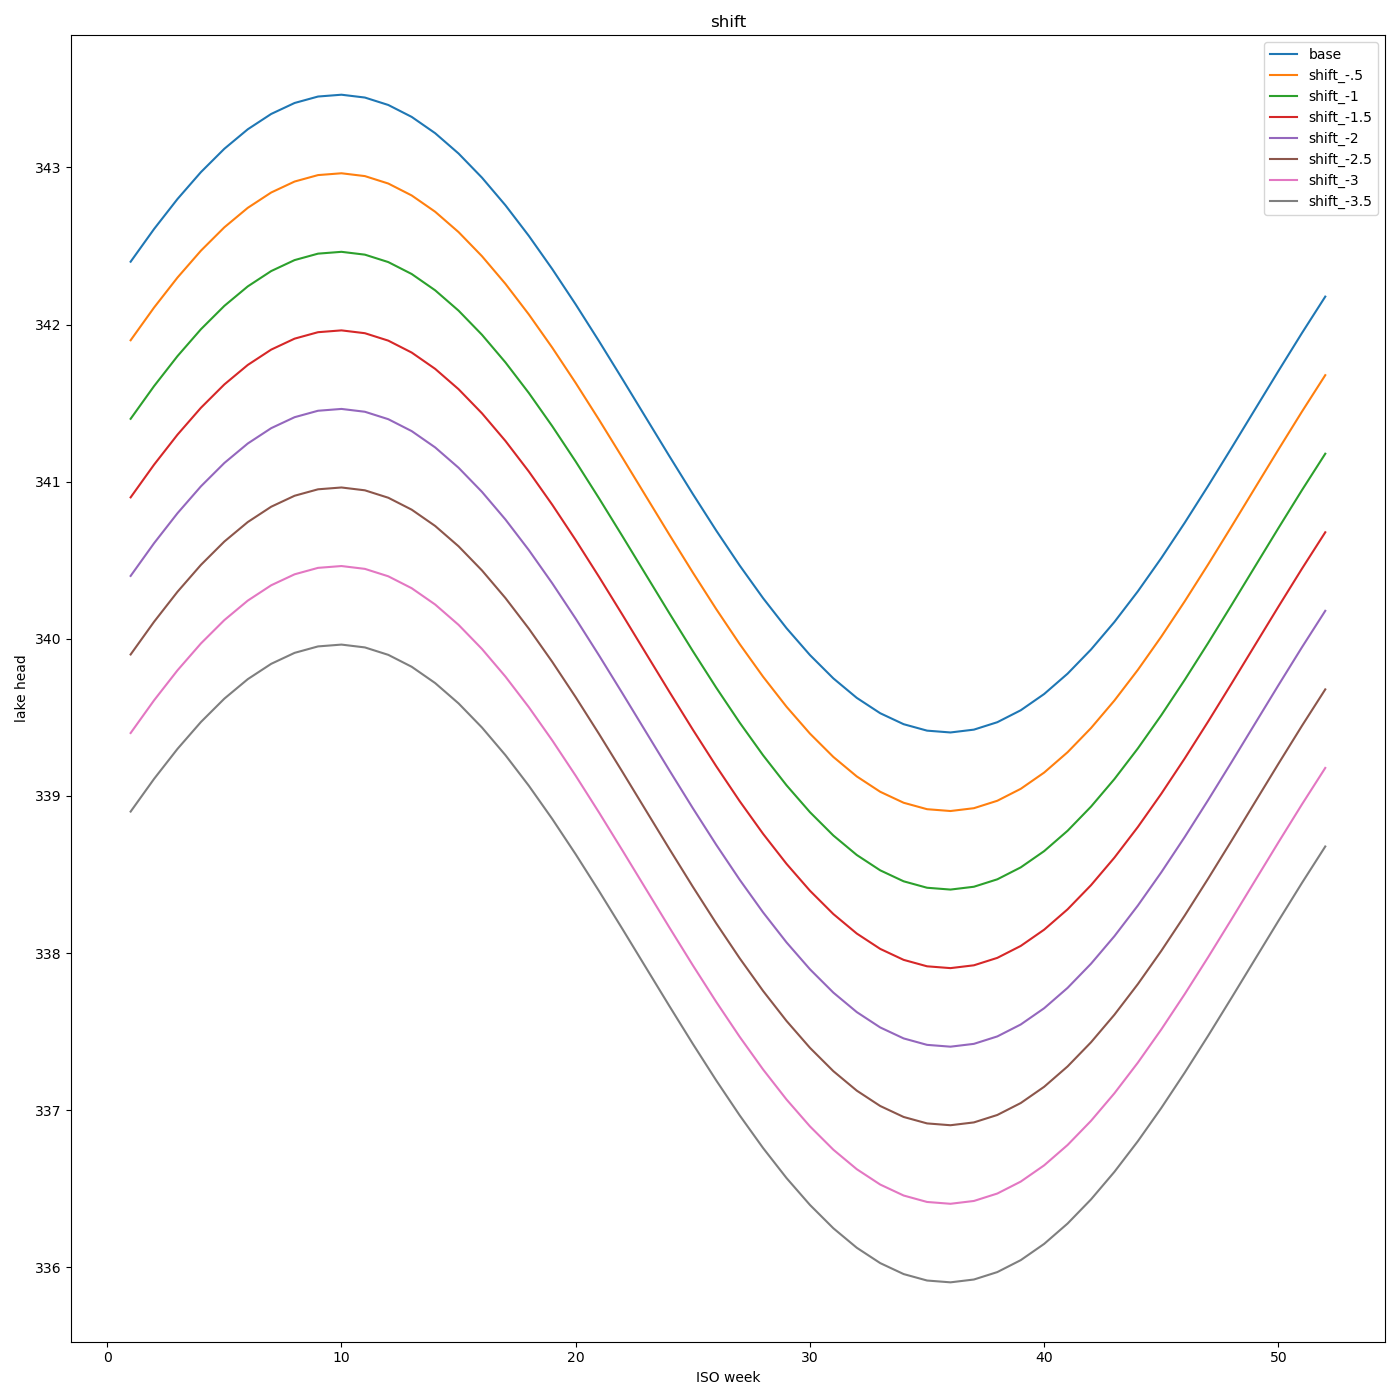
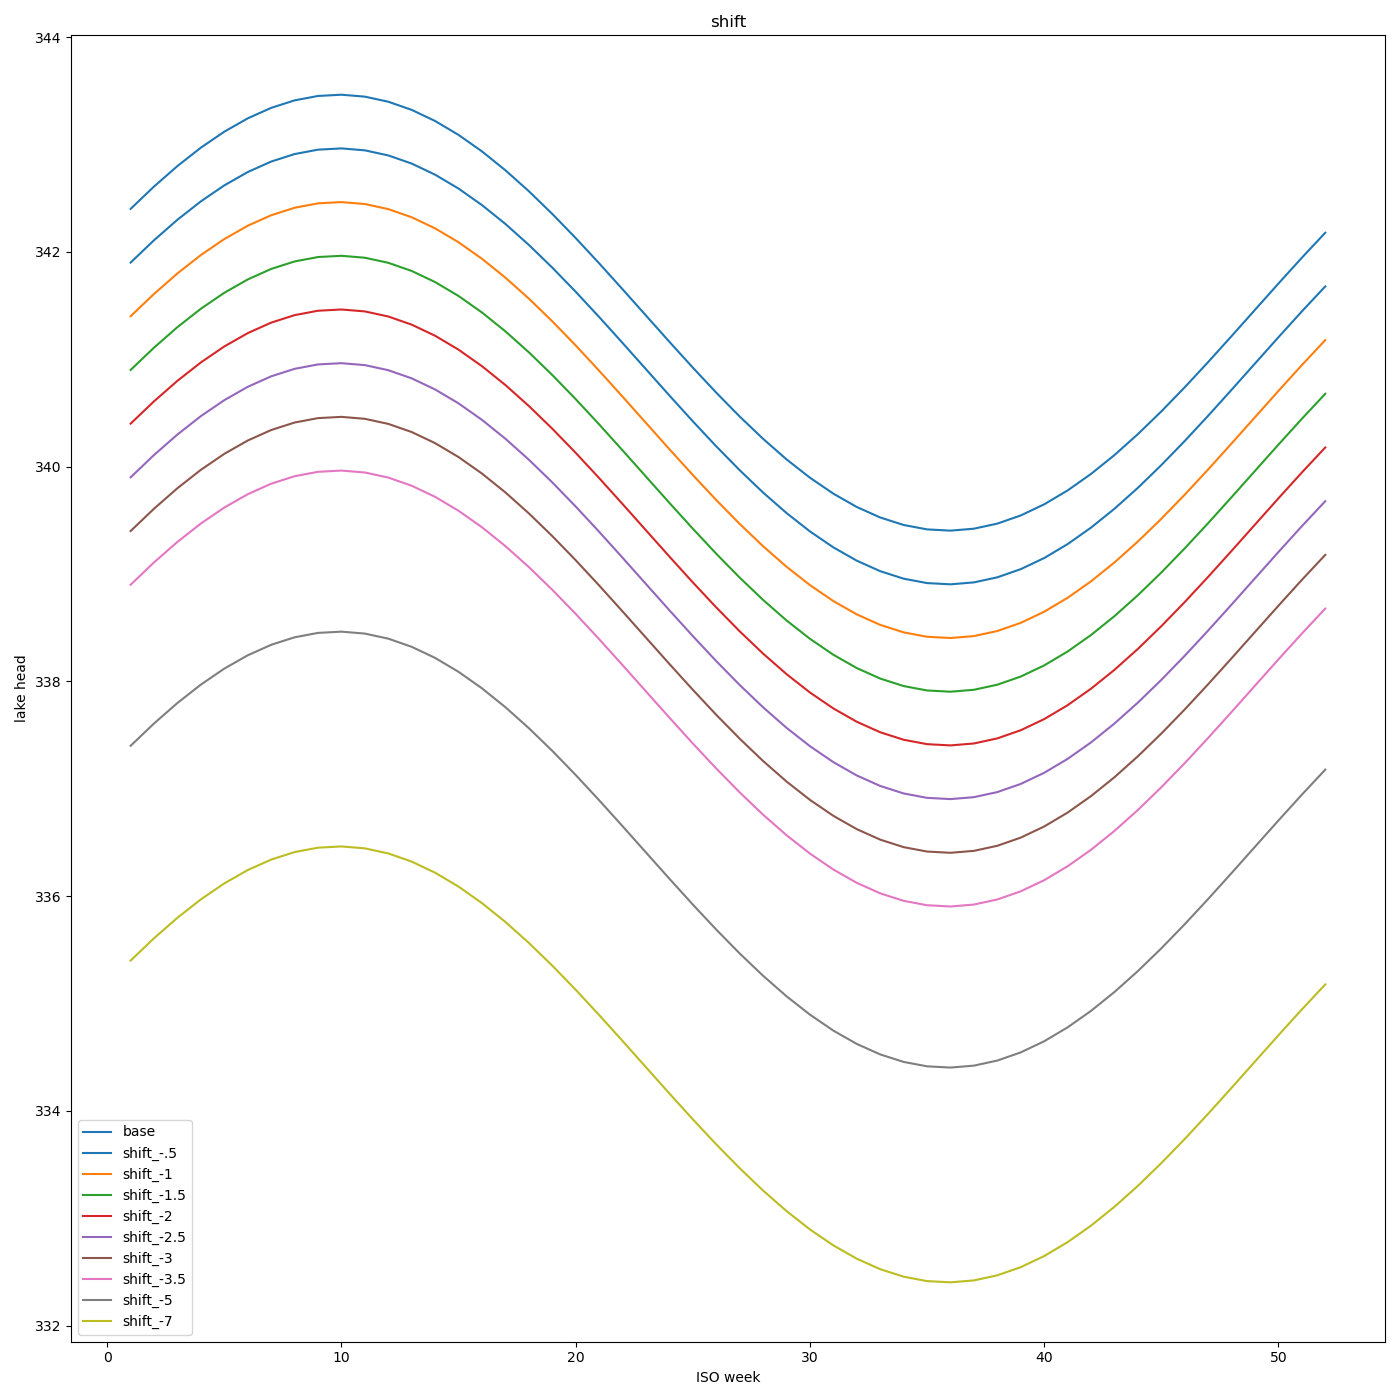
new low lake scenarios

diff --git a/Scenarios/low_lake_scenarios.py b/Scenarios/low_lake_scenarios.py
@@ -15,21 +15,22 @@ import inspect
 import numpy as np
 from Scenarios.low_lake_scenario_data import get_low_lake_params, mod_sin_asym
 import traceback
-from model_build.project_model_tools import bund_top
+from model_build.project_model_tools import bund_top, l2_top
 
 
 def get_lake_hds(key):
     xs = np.arange(1, 52 + 1)
     base_a, base_b, base_d = get_low_lake_params()
+
     possible_data = {
         'base': mod_sin_asym(xs, d=base_d,
                              low_a=base_a, low_b=base_b, low_k=1,
                              high_a=base_a, high_b=base_b, high_k=1),
 
         # widening the low
-        'low_wide_0.9': mod_sin_asym(xs, d=base_d,
-                                     low_a=base_a, low_b=base_b, low_k=.75,
-                                     high_a=base_a, high_b=base_b, high_k=1),
+        'low_wide_0.75': mod_sin_asym(xs, d=base_d,
+                                      low_a=base_a, low_b=base_b, low_k=.75,
+                                      high_a=base_a, high_b=base_b, high_k=1),
         'low_wide_0.5': mod_sin_asym(xs, d=base_d,
                                      low_a=base_a, low_b=base_b, low_k=.5,
                                      high_a=base_a, high_b=base_b, high_k=1),
@@ -62,6 +63,12 @@ def get_lake_hds(key):
         'shift_-3.5': mod_sin_asym(xs, d=base_d,
                                    low_a=base_a, low_b=base_b - 3.5, low_k=1,
                                    high_a=base_a, high_b=base_b - 3.5, high_k=1),
+        'shift_-5': mod_sin_asym(xs, d=base_d,
+                                 low_a=base_a, low_b=base_b - 5, low_k=1,
+                                 high_a=base_a, high_b=base_b - 5, high_k=1),
+        'shift_-7': mod_sin_asym(xs, d=base_d,
+                                 low_a=base_a, low_b=base_b - 7, low_k=1,
+                                 high_a=base_a, high_b=base_b - 7, high_k=1),
 
         # amplitude
         'low_amp_1.25': mod_sin_asym(xs, d=base_d,
@@ -89,9 +96,23 @@ def get_lake_hds(key):
                                   low_a=base_a * 4, low_b=base_b, low_k=1,
                                   high_a=base_a, high_b=base_b, high_k=1),
 
-        # todo others ??? after running these
+        'low_wid_amp_0.5_4': mod_sin_asym(xs, d=base_d,
+                                          low_a=base_a * 3, low_b=base_b - 3, low_k=.5,
+                                          high_a=base_a, high_b=base_b - 3, high_k=1),
+        'low_wid_amp_0.75_4': mod_sin_asym(xs, d=base_d,
+                                           low_a=base_a * 3, low_b=base_b - 3, low_k=.75,
+                                           high_a=base_a, high_b=base_b - 3, high_k=1),
+        'low_wid_amp_0.9_4': mod_sin_asym(xs, d=base_d,
+                                          low_a=base_a * 3, low_b=base_b - 3, low_k=.9,
+                                          high_a=base_a, high_b=base_b - 3, high_k=1),
 
     }
+    t = [[np.mean(possible_data['base'])]] + [possible_data['low_amp_4'][0:np.argmin(possible_data['low_amp_4'])]]
+    t = np.concatenate(t)
+    t2 = np.concatenate((t, np.zeros((52 * low_lake_years + 1) - len(t)) + 333))
+    possible_data['lake_drop_333'] = t2
+    t2 = np.concatenate((t, np.zeros((52 * low_lake_years + 1) - len(t)) + 320))
+    possible_data['lake_drop_320'] = t2
 
     if key == 'all':
         return xs, possible_data
@@ -99,7 +120,7 @@ def get_lake_hds(key):
         return xs, possible_data[key]
 
 
-low_lake_groups = ('low_wide', 'shift', 'low_amp')
+low_lake_groups = ('low_wide', 'shift', 'low_amp', 'low_wid_amp', 'lake_drop')
 
 
 def plot_possible_hds(save=False):
@@ -114,6 +135,8 @@ def plot_possible_hds(save=False):
 
         for c, k in zip(colors, use_keys):
             v = data[k]
+            if 'lake_drop' in k:
+                xs = range(len(v))
             ax.plot(xs, v, color=c, label=k)
         ax.set_xlabel('ISO week')
         ax.set_ylabel('lake head')
@@ -122,7 +145,8 @@ def plot_possible_hds(save=False):
         fig.tight_layout()
         if save:
             fig.savefig(save_path)
-    plt.show()
+    if not save:
+        plt.show()
 
 
 def print_myself(key):
@@ -168,13 +192,25 @@ def run_low_lake_scenario(key, base_run_dir, base_outdir, build_run_model=True, 
                                                                 hill_param, race_param, False), mismatch_keys='warn')
     lake = low_lake_tdis.make_spd_steady(get_scen_ghb_data(scen_tdis), mismatch_keys='warn')
     xs, usehds = get_lake_hds(key)
-    usehds = np.concatenate([[usehds.mean()]] +
-                            [usehds for e in range(low_lake_years)]
-                            )
+    if len(usehds) == 52:
+        usehds = np.concatenate([[usehds.mean()]] +
+                                [usehds for e in range(low_lake_years)]
+                                )
+    elif len(usehds) == 52 * low_lake_years + 1:
+        pass
+    else:
+        raise NotImplementedError
     for p, lh in enumerate(usehds):
-        if lh < bund_top:
+        if lh < l2_top:
+            temp = lake[p]
+            temp = temp[temp['k'] > 1]
+            temp['bhead'] = lh
+            lake[p] = temp
+
+        elif lh < bund_top:
             temp = lake[p]
             temp = temp[temp['k'] > 0]
+            temp['bhead'] = lh
             lake[p] = temp
         else:
             lake[p]['bhead'] = lh
@@ -195,7 +231,7 @@ def run_low_lake_scenario(key, base_run_dir, base_outdir, build_run_model=True, 
                  well_spd=wel_data,
                  outdir=base_outdir.joinpath(key),
                  build_run_model=build_run_model, process_results=process_results,
-                 tickper=4)
+                 tickper=8)
 
 
 def try_run_all(rerun=False, subset=None):
@@ -225,4 +261,5 @@ def try_run_all(rerun=False, subset=None):
 
 
 if __name__ == '__main__':
-    try_run_all(rerun=True)
+    plot_possible_hds(True)
+    try_run_all(rerun=False)
